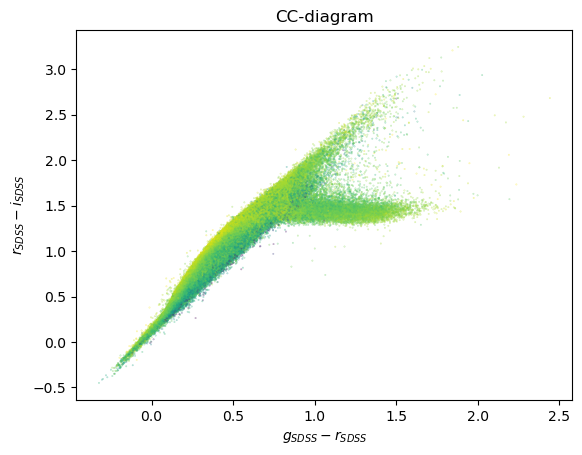
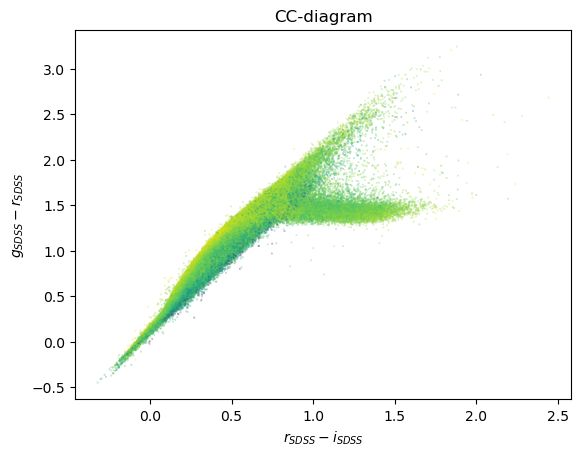
fix mistake in finalExam

diff --git a/astronomy1/finalExam/README.md b/astronomy1/finalExam/README.md
@@ -110,8 +110,6 @@ WHERE
 ORDER BY dr3main.source_id 
 ```
 
-
-
 ```python
 import numpy as np
 import matplotlib.pyplot as plt
@@ -367,8 +365,8 @@ c = data["mh_gspphot"]
 
 plt.scatter(ri, gr, c = c, s = 0.1, alpha = 0.5)
 
-plt.xlabel('$g_{SDSS}-r_{SDSS}$')
-plt.ylabel('$r_{SDSS}-i_{SDSS}$')
+plt.xlabel('$r_{SDSS}-i_{SDSS}$')
+plt.ylabel('$g_{SDSS}-r_{SDSS}$')
 plt.title('CC-diagram')
 
 plt.show()
@@ -441,8 +439,8 @@ plt.scatter(ri, gr, c = c, s = 0.1, alpha = 0.5)
 plt.plot(rmag - imag, gmag - rmag)
 plt.colorbar()
 
-plt.xlabel('$g_{SDSS}-r_{SDSS}$')
-plt.ylabel('$r_{SDSS}-i_{SDSS}$')
+plt.xlabel('$r_{SDSS}-i_{SDSS}$')
+plt.ylabel('$g_{SDSS}-r_{SDSS}$')
 plt.title('CC-diagram with theoretically')
 
 plt.show()
